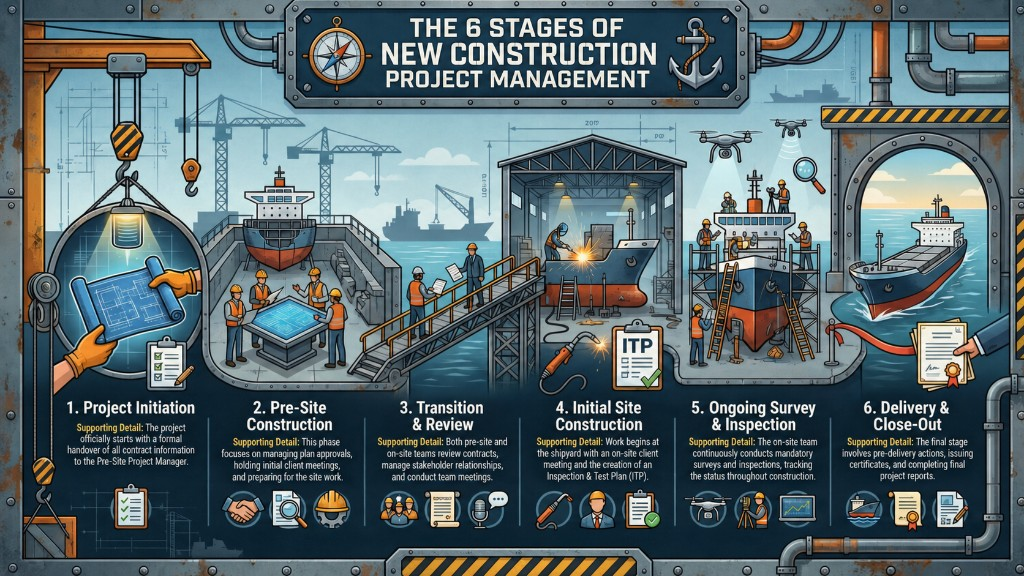
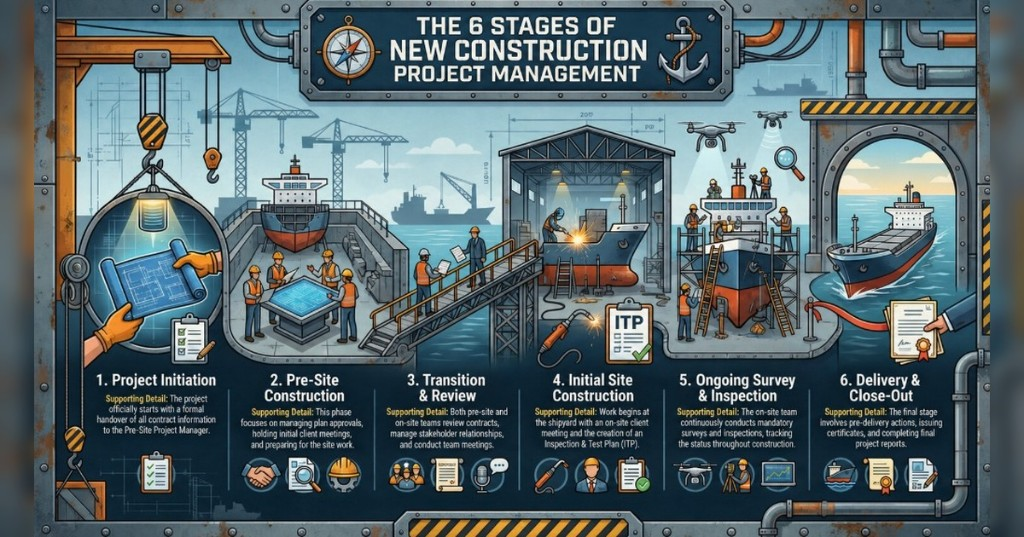
Update NCPM social preview image and OG metadata.

diff --git a/notes/maritime/new-construction-pm-notes.en.html b/notes/maritime/new-construction-pm-notes.en.html
@@ -19,10 +19,10 @@
   <meta property="og:site_name" content="Reay Huang Maritime Notes" />
   <meta property="og:url" content="https://reayhuang.com/notes/maritime/new-construction-pm-notes.en.html" />
   <meta property="og:image" content="https://reayhuang.com/assets/images/maritime/ncpm-six-step-flow-linkedin-preview.jpg" />
-  <meta property="og:image:alt" content="Six stages of new construction project management visual guide" />
+  <meta property="og:image:alt" content="The 6 stages of new construction project management — initiation, pre-site, transition, site start-up, ongoing survey, and delivery close-out" />
   <meta property="og:image:type" content="image/jpeg" />
   <meta property="og:image:width" content="1024" />
-  <meta property="og:image:height" content="576" />
+  <meta property="og:image:height" content="537" />
   <meta name="twitter:card" content="summary_large_image" />
   <meta name="twitter:title" content="New Construction Project Management Flow | Reay's Note" />
   <meta name="twitter:description" content="A visual six-step guide from project initiation to delivery close-out, focused on responsibility, inputs, key outputs, and risk control." />

diff --git a/notes/maritime/new-construction-pm-notes.html b/notes/maritime/new-construction-pm-notes.html
@@ -19,10 +19,10 @@
   <meta property="og:site_name" content="Reay Huang Maritime Notes" />
   <meta property="og:url" content="https://reayhuang.com/notes/maritime/new-construction-pm-notes.html" />
   <meta property="og:image" content="https://reayhuang.com/assets/images/maritime/ncpm-six-step-flow-linkedin-preview.jpg" />
-  <meta property="og:image:alt" content="新造船專案管理六大步驟流程圖" />
+  <meta property="og:image:alt" content="新造船專案管理六大階段 — 專案啟動、場前準備、移交審查、現場啟動、持續檢驗與交付結案" />
   <meta property="og:image:type" content="image/jpeg" />
   <meta property="og:image:width" content="1024" />
-  <meta property="og:image:height" content="576" />
+  <meta property="og:image:height" content="537" />
   <meta name="twitter:card" content="summary_large_image" />
   <meta name="twitter:title" content="新造船專案管理流程｜Reay's Note" />
   <meta name="twitter:description" content="六大步驟視覺化筆記：從專案啟動到交付結案，掌握每一階段的責任、輸入資料、關鍵產出與風險控制。" />
